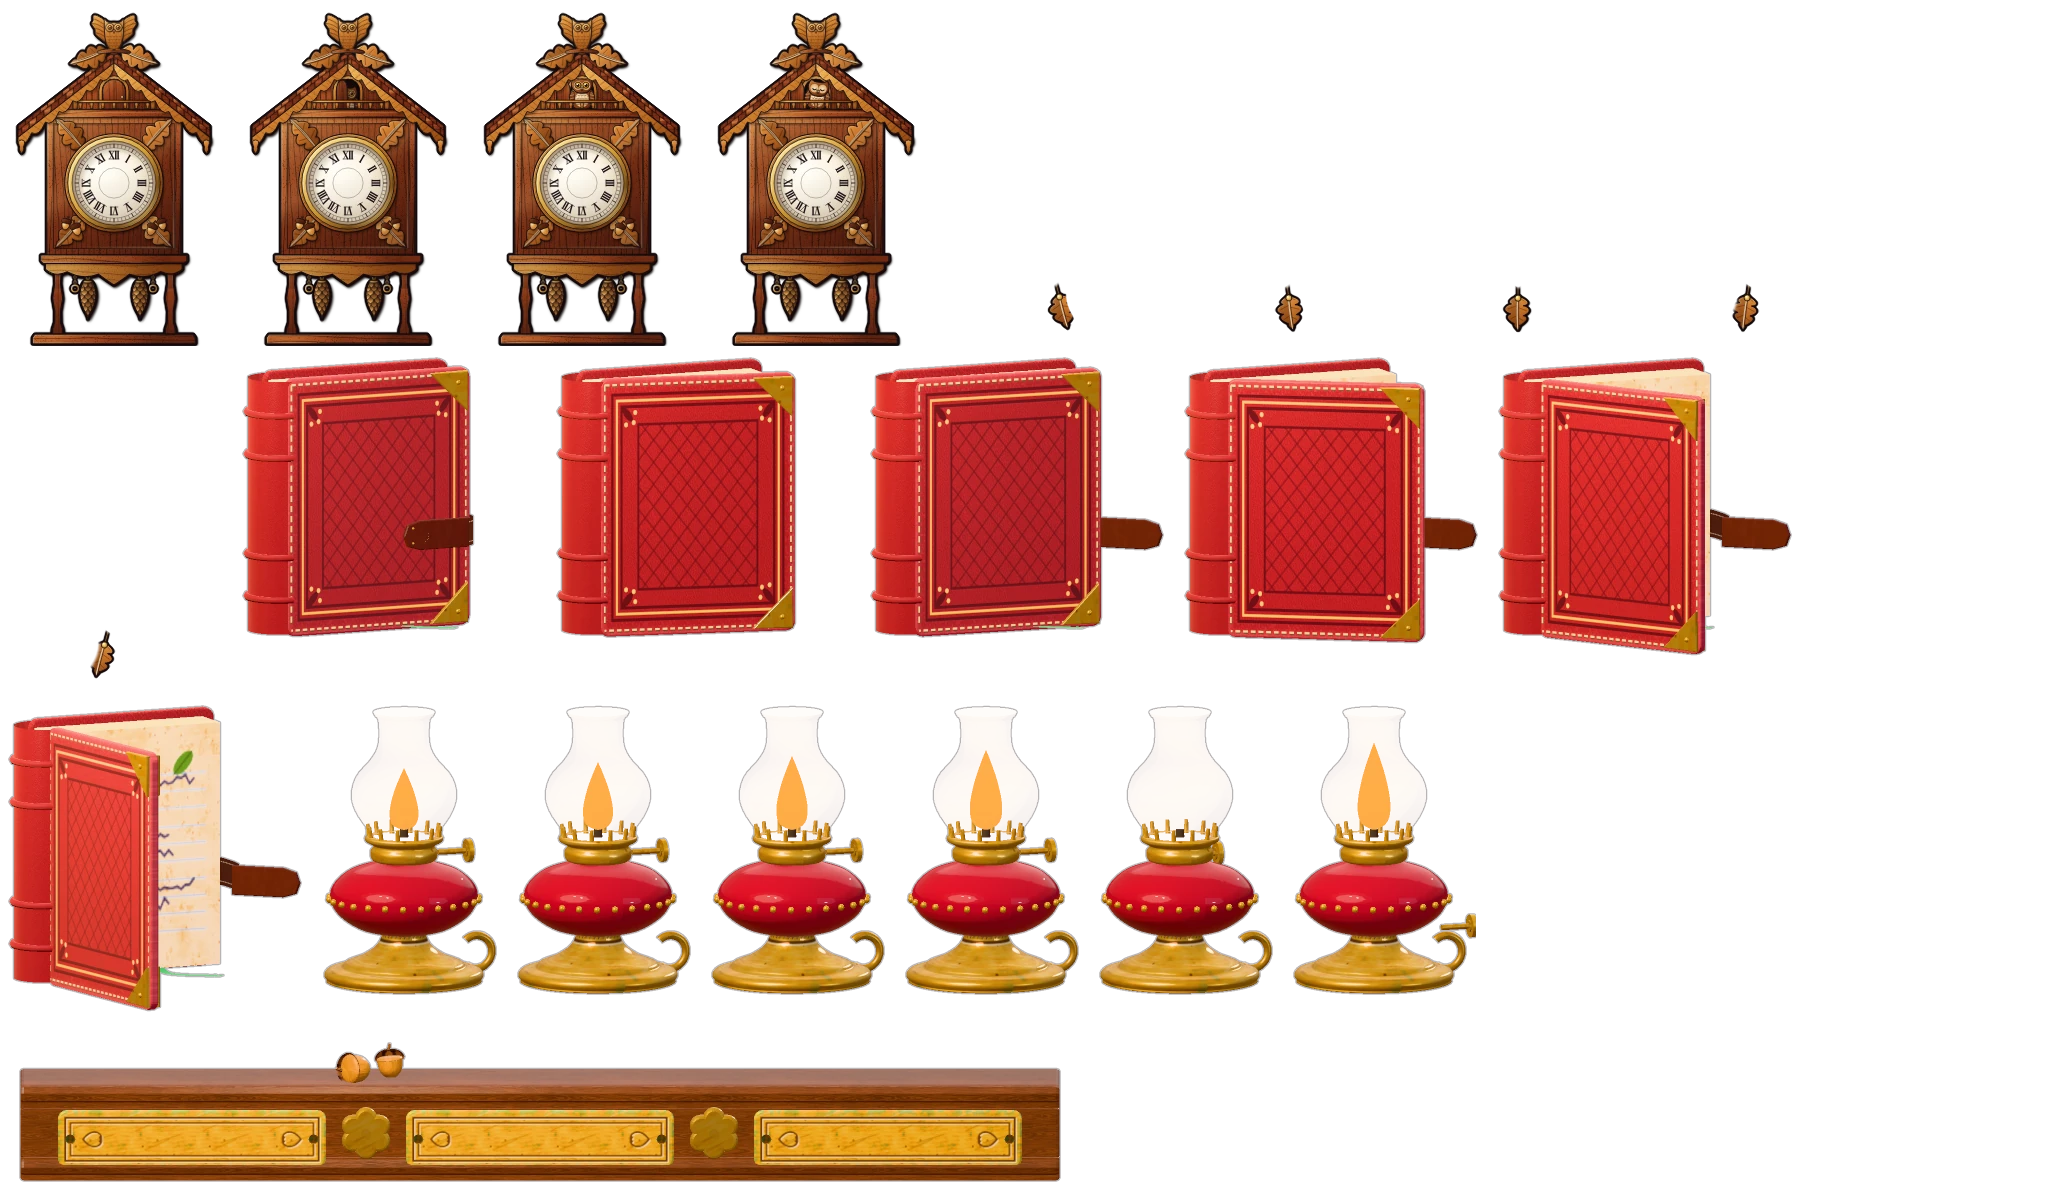
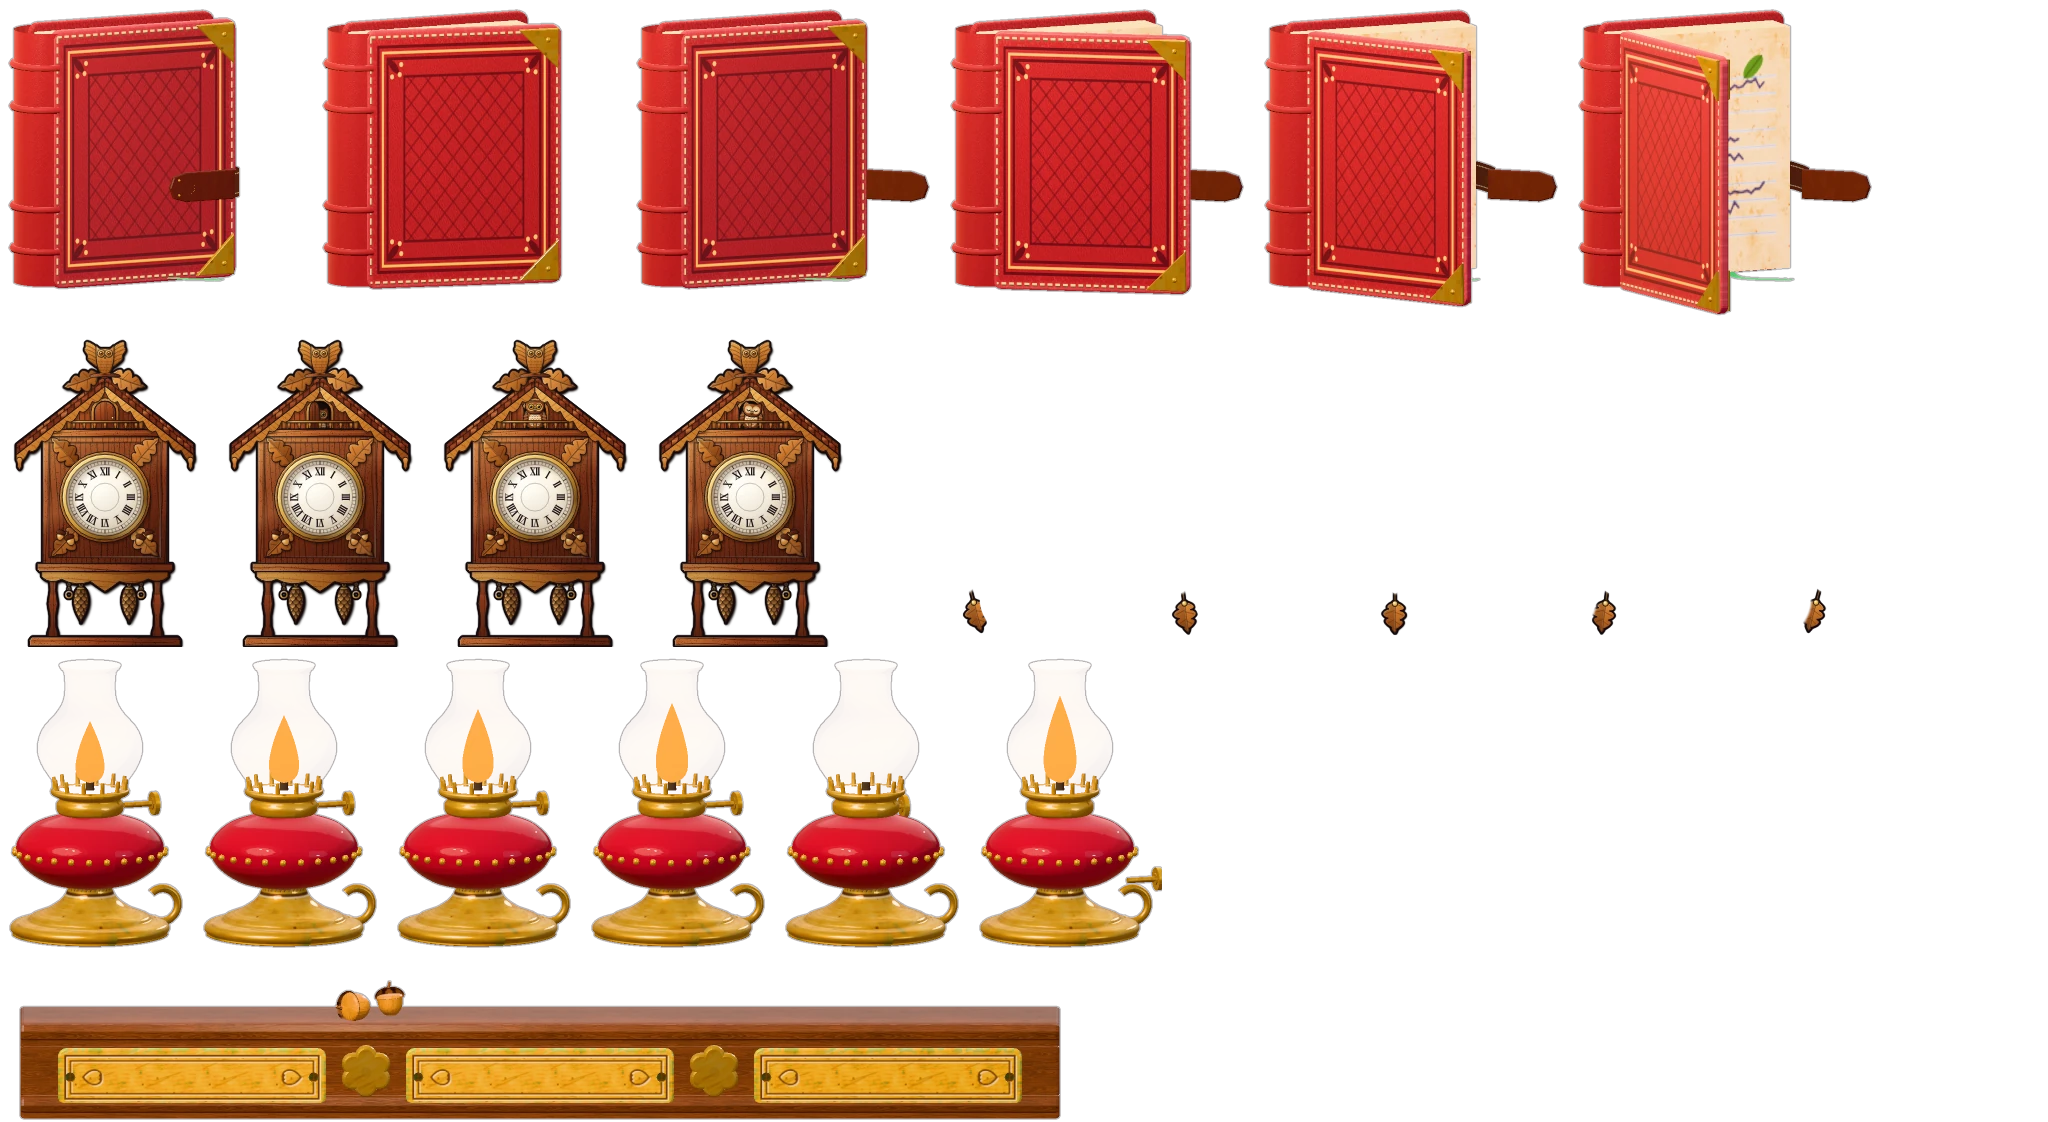
Clock: shelf sprite a touch smaller, wall like the office's, warmer walnut on the big clock, acorns in front
Claude-Session: https://claude.ai/code/session_01N97LkrCm8fhfTY3mzxuNCj

diff --git a/src/ui/px/icons3d.ts b/src/ui/px/icons3d.ts
@@ -6,4 +6,4 @@
 // (art px)] }, dial: [x, y, radius], lamp: [x, y] of the flame, objects: { id: centre x } } }. Models: the game's own
 // GLBs, the shelf's props (src/ui/chrome/props3d.ts) and models made in the bake; credits in docs/credits.
 export interface ShelfIndex { atlas: string; res: number; box: [number, number, number]; sprites: Record<string, [number, number, number, number, number, number]>; dial: [number, number, number]; lamp: [number, number]; objects: Record<string, number> }
-export const ICONS3D: { atlas: string; hd: [number, number, number]; icons: Record<string, number>; anim: Record<string, number[]>; shelf: ShelfIndex } = {"atlas":"img/ui3d.webp","hd":[256,16,0],"icons":{"check":0,"cross":1,"plus":2,"minus":3,"info":4,"arrow_right":5,"arrow_left":6,"arrow_up":7,"arrow_down":8,"rotate_right":9,"rotate_left":10,"play":11,"pause":12,"lock":13,"star":14,"heart":15,"sparkle":16,"moon":17,"sun":18,"shield":19,"zzz":20,"bolt":21,"ice_flake":22,"alarm":23,"clock":24,"hourglass":25,"calendar":26,"candle":27,"lantern":28,"nest":29,"bell":30,"phone_off":31,"music":32,"note":33,"mic":34,"speaker_on":35,"speaker_off":36,"rain":37,"drop":38,"waves":39,"wind":40,"campfire":41,"leaf":42,"book":43,"pen":44,"jar":45,"hanger":46,"brush":47,"pushpin":48,"magnifier":49,"clipboard":50,"satchel":51,"map":52,"gear":53,"treehouse":54,"birdhouse":55,"cursor_hand":56,"stats":57,"nights":58,"things":59,"seals":60,"wd_feather":61,"tophat":62,"wd_glasses":63,"wd_scarf":64,"wd_sweater":65,"wd_cape":66,"wd_mirror":67,"wd_frame":68,"bp_box":69,"bp_bed":70,"bp_chair":71,"bp_table":72,"bp_shelf":73,"bp_lamp":74,"bp_plant":75,"bp_rug":76,"bp_wall":77,"bp_decor":78,"bp_fun":79,"bp_wallpaper":80,"bp_floor":81,"bp_season":82,"bp_move":83,"bp_buy":84,"tool_build":85,"tool_shop":86,"tool_dress":87,"tool_quests":88,"tool_map":89,"tool_settings":90,"owlcoin":91,"coin_pouch":92,"coin_sack":93,"coin_chest":94,"coin_vault":95,"moongem":96,"door_out":97,"door_in":98,"acorn":91,"wd_hanger":46},"anim":{"owlcoin":[99,100,101,102,103,104,105,106],"moongem":[107,108,109,110,111,112,113,114],"coin_vault":[115,116,117,118],"acorn_big":[99,100,101,102,103,104,105,106],"gem_big":[107,108,109,110,111,112,113,114]},"shelf":{"atlas":"img/ui3d-shelf.webp","res":3,"box":[352,178,46],"sprites":{"clock0":[0,0,232,346,138,31],"clock1":[234,0,232,346,138,31],"clock2":[468,0,232,346,138,31],"clock3":[702,0,232,346,138,31],"pend0":[936,0,232,346,138,31],"pend1":[1170,0,232,346,138,31],"pend2":[1404,0,232,346,138,31],"pend3":[1638,0,232,346,138,31],"pend4":[0,348,232,346,138,31],"book0":[234,348,312,324,250,51],"book1":[548,348,312,324,250,51],"book2":[862,348,312,324,250,51],"book3":[1176,348,312,324,250,51],"book4":[1490,348,312,324,250,51],"book5":[0,696,312,324,250,51],"lamp0":[314,696,192,309,30,48],"lamp1":[508,696,192,309,30,48],"lamp2":[702,696,192,309,30,48],"lamp3":[896,696,192,309,30,48],"lamp_off":[1090,696,192,309,30,48],"lamp_pull":[1284,696,192,309,30,48],"shelf":[0,1022,1080,162,-4,124]},"dial":[176,92,14],"lamp":[60,85.7],"objects":{"sleep":60,"clock":176,"book":292}}};
+export const ICONS3D: { atlas: string; hd: [number, number, number]; icons: Record<string, number>; anim: Record<string, number[]>; shelf: ShelfIndex } = {"atlas":"img/ui3d.webp","hd":[256,16,0],"icons":{"check":0,"cross":1,"plus":2,"minus":3,"info":4,"arrow_right":5,"arrow_left":6,"arrow_up":7,"arrow_down":8,"rotate_right":9,"rotate_left":10,"play":11,"pause":12,"lock":13,"star":14,"heart":15,"sparkle":16,"moon":17,"sun":18,"shield":19,"zzz":20,"bolt":21,"ice_flake":22,"alarm":23,"clock":24,"hourglass":25,"calendar":26,"candle":27,"lantern":28,"nest":29,"bell":30,"phone_off":31,"music":32,"note":33,"mic":34,"speaker_on":35,"speaker_off":36,"rain":37,"drop":38,"waves":39,"wind":40,"campfire":41,"leaf":42,"book":43,"pen":44,"jar":45,"hanger":46,"brush":47,"pushpin":48,"magnifier":49,"clipboard":50,"satchel":51,"map":52,"gear":53,"treehouse":54,"birdhouse":55,"cursor_hand":56,"stats":57,"nights":58,"things":59,"seals":60,"wd_feather":61,"tophat":62,"wd_glasses":63,"wd_scarf":64,"wd_sweater":65,"wd_cape":66,"wd_mirror":67,"wd_frame":68,"bp_box":69,"bp_bed":70,"bp_chair":71,"bp_table":72,"bp_shelf":73,"bp_lamp":74,"bp_plant":75,"bp_rug":76,"bp_wall":77,"bp_decor":78,"bp_fun":79,"bp_wallpaper":80,"bp_floor":81,"bp_season":82,"bp_move":83,"bp_buy":84,"tool_build":85,"tool_shop":86,"tool_dress":87,"tool_quests":88,"tool_map":89,"tool_settings":90,"owlcoin":91,"coin_pouch":92,"coin_sack":93,"coin_chest":94,"coin_vault":95,"moongem":96,"door_out":97,"door_in":98,"acorn":91,"wd_hanger":46},"anim":{"owlcoin":[99,100,101,102,103,104,105,106],"moongem":[107,108,109,110,111,112,113,114],"coin_vault":[115,116,117,118],"acorn_big":[99,100,101,102,103,104,105,106],"gem_big":[107,108,109,110,111,112,113,114]},"shelf":{"atlas":"img/ui3d-shelf.webp","res":3,"box":[352,178,46],"sprites":{"book0":[0,0,312,324,250,51],"book1":[314,0,312,324,250,51],"book2":[628,0,312,324,250,51],"book3":[942,0,312,324,250,51],"book4":[1256,0,312,324,250,51],"book5":[1570,0,312,324,250,51],"clock0":[0,326,213,321,141,39],"clock1":[215,326,213,321,141,39],"clock2":[430,326,213,321,141,39],"clock3":[645,326,213,321,141,39],"pend0":[860,326,213,321,141,39],"pend1":[1075,326,213,321,141,39],"pend2":[1290,326,213,321,141,39],"pend3":[1505,326,213,321,141,39],"pend4":[1720,326,213,321,141,39],"lamp0":[0,649,192,309,30,48],"lamp1":[194,649,192,309,30,48],"lamp2":[388,649,192,309,30,48],"lamp3":[582,649,192,309,30,48],"lamp_off":[776,649,192,309,30,48],"lamp_pull":[970,649,192,309,30,48],"shelf":[0,960,1080,162,-4,124]},"dial":[176,96.05,12.95],"lamp":[60,85.7],"objects":{"sleep":60,"clock":176,"book":292}}};

diff --git a/src/world/stages/cuckoo.ts b/src/world/stages/cuckoo.ts
@@ -226,7 +226,7 @@ export class CuckooStage implements Stage {
     const f = K.finishOf(this.prefs.finish), cf = K.finishOf(carveOf(f.id));
     const std = (o: THREE.MeshStandardMaterialParameters) => new THREE.MeshStandardMaterial(o);
     this.M = {
-      wood: std({ map: this.woodTex(f.id, -0.1), vertexColors: true, roughness: 0.5, envMapIntensity: 0.55 }),
+      wood: std({ map: this.woodTex(f.id, -0.1), color: 0x957a6c, vertexColors: true, roughness: 0.5, envMapIntensity: 0.55 }),
       carve: std({ map: this.woodTex(cf.id, -0.08), vertexColors: true, roughness: 0.46, envMapIntensity: 0.6 }),
       leaf: std({ map: this.keep(K.ctex(K.leafCanvas(cf.ramp))), vertexColors: true, roughness: 0.48, envMapIntensity: 0.6 }),
       feather: std({ map: this.keep(K.ctex(K.featherCanvas(cf.ramp), true)), vertexColors: true, roughness: 0.5, envMapIntensity: 0.6 }),
@@ -449,8 +449,8 @@ export class CuckooStage implements Stage {
       leaf(Math.cos(a) * r0, DIAL.y + Math.sin(a) * r0, fz, a, 0.24, 0.15, seed, 0.16);
     }
     for (const sx of [-1, 1]) {
-      acorn(sx * 0.236, DIAL.y - 0.243, fz + 0.02, -sx * 0.35, 1.25);
-      acorn(sx * 0.279, DIAL.y - 0.214, fz + 0.016, sx * 0.25, 1.15);
+      acorn(sx * 0.236, DIAL.y - 0.243, fz + 0.045, -sx * 0.35, 1.25);
+      acorn(sx * 0.279, DIAL.y - 0.214, fz + 0.04, sx * 0.25, 1.15);
     }
     // ---- the crest: a carved owl with spread wings on a fan of oak leaves
     const crest = K.owlCrest(0.36, 0, 0.62);

diff --git a/index.html b/index.html
@@ -19,8 +19,8 @@
     <canvas id="world"></canvas>
     <div id="ui"></div>
     <!-- boot:begin (generated by src/onboard/tools/bootart.mjs; edit the generator, not this block) -->
-    <style>#boot{--k:min(calc(86vw / 176),calc(74vh / 352));font-size:var(--k);position:fixed;inset:0;z-index:99;overflow:hidden;display:flex;align-items:center;justify-content:center;
-background:radial-gradient(ellipse 58% 40% at 50% 38%,rgba(255,190,100,.34),rgba(255,170,80,.1) 55%,rgba(255,170,80,0) 78%),radial-gradient(ellipse 120% 95% at 50% 40%,rgba(0,0,0,0) 40%,rgba(1,6,3,.86) 100%),repeating-linear-gradient(90deg,#0f4a2f 0 6.2em,#a08a3a 6.2em 6.6em,#0b3b25 6.6em 12.8em,#a08a3a 12.8em 13.2em),#0b3b25;
+    <style>#boot{--k:min(calc(86vw / 176),calc(80vh / 352));font-size:var(--k);position:fixed;inset:0;z-index:99;overflow:hidden;display:flex;align-items:center;justify-content:center;
+background:radial-gradient(ellipse 58% 40% at 50% 38%,rgba(255,190,100,.34),rgba(255,170,80,.1) 55%,rgba(255,170,80,0) 78%),radial-gradient(ellipse 120% 95% at 50% 40%,rgba(0,0,0,0) 40%,rgba(1,6,3,.86) 100%),repeating-linear-gradient(90deg,#0f4a2f 0 9em,#8c7a34 9em 9.8em,#0b3b25 9.8em 18.8em,#8c7a34 18.8em 19.6em),#0b3b25;
 user-select:none;-webkit-user-select:none;-webkit-tap-highlight-color:transparent;transition:opacity .7s}
 #boot.gone:not(.hold):not(.js){opacity:0;pointer-events:none}
 #boot *{position:absolute;display:block;-webkit-user-drag:none;pointer-events:none}

diff --git a/src/dev/iconbake.ts b/src/dev/iconbake.ts
@@ -1481,7 +1481,7 @@ async function bakeShelf(): Promise<{ sprites: ShelfSprite[]; dial: [number, num
   return { sprites: out, dial, lampAt };
 }
 /** [clock12] the shelf's clock: art px per art unit of the painting, and where its plinth sits */
-const CLOCK_K = 0.4, CLOCK_PLINTH = 286, CLOCK_FOOT = 146;
+const CLOCK_K = 0.37, CLOCK_PLINTH = 286, CLOCK_FOOT = 146;
 function bakeShelfClock(): { sprites: ShelfSprite[]; dial: [number, number, number] } {
   const cx = SHELF_OBJ.clock.cx, R = SHELF_RES * CLOCK_K;
   // the painting's box (art units) -> the shelf's box (art px), on whole art px

diff --git a/docs/credits/intro4.md b/docs/credits/intro4.md
@@ -1,7 +1,7 @@
 # Credits: the loading clock and Hollow & Co.'s office (builder intro4)
 
-The loading clock (`index.html` boot block, `public/models/interview/clock.png`) is painted in code by
-`src/onboard/tools/bootart.mjs`. The interview's form layer (paper, leather folio, brass clip, ink boxes and ticks,
+The loading clock (`index.html` boot block, laid out by `src/onboard/tools/bootart.mjs`) and the office, shelf and Clock-screen clocks are painted in code by
+`src/onboard/clockpaint.ts`. The interview's form layer (paper, leather folio, brass clip, ink boxes and ticks,
 rubber-stamp impressions, sticky note, acorns) is painted in code by `src/onboard/panelart.ts`. The office (walls,
 parquet, rug, coffered ceiling, desk, bookcases and books, credenza, filing cabinets, banker's lamp, nameplate,
 carafe, fountain pen, rubber stamp and ink pad, client folder, sconces, fig trees, the bracket clock) is modelled

diff --git a/README.md b/README.md
@@ -39,7 +39,7 @@ furniture and outfits. The better you sleep, the fuller the satchel.
   floors are shuttered with brass plaques; warm rooms with real lamp light. Every clock shows the real time.
 - **Fluffy owls**: eight realistic, hand-painted species and four skins with soft downy plumage; 39 remodelled
   cosmetics.
-- **Intro and interview**: a carved pixel-art cuckoo clock as the loading screen (the real time from the first frame,
+- **Intro and interview**: a realistic painted Black Forest cuckoo clock as the loading screen, drawn at the screen's own resolution (the real time from the first frame,
   pine-cone weights that sink as the game loads, Pip popping out of the little doors to call cuckoo), then the
   Hollow & Co. office (the very same clock hangs on its wall),
   where Pip interviews you with a 2D paper form, live 3D answer cards, a fountain pen and a rubber stamp.
